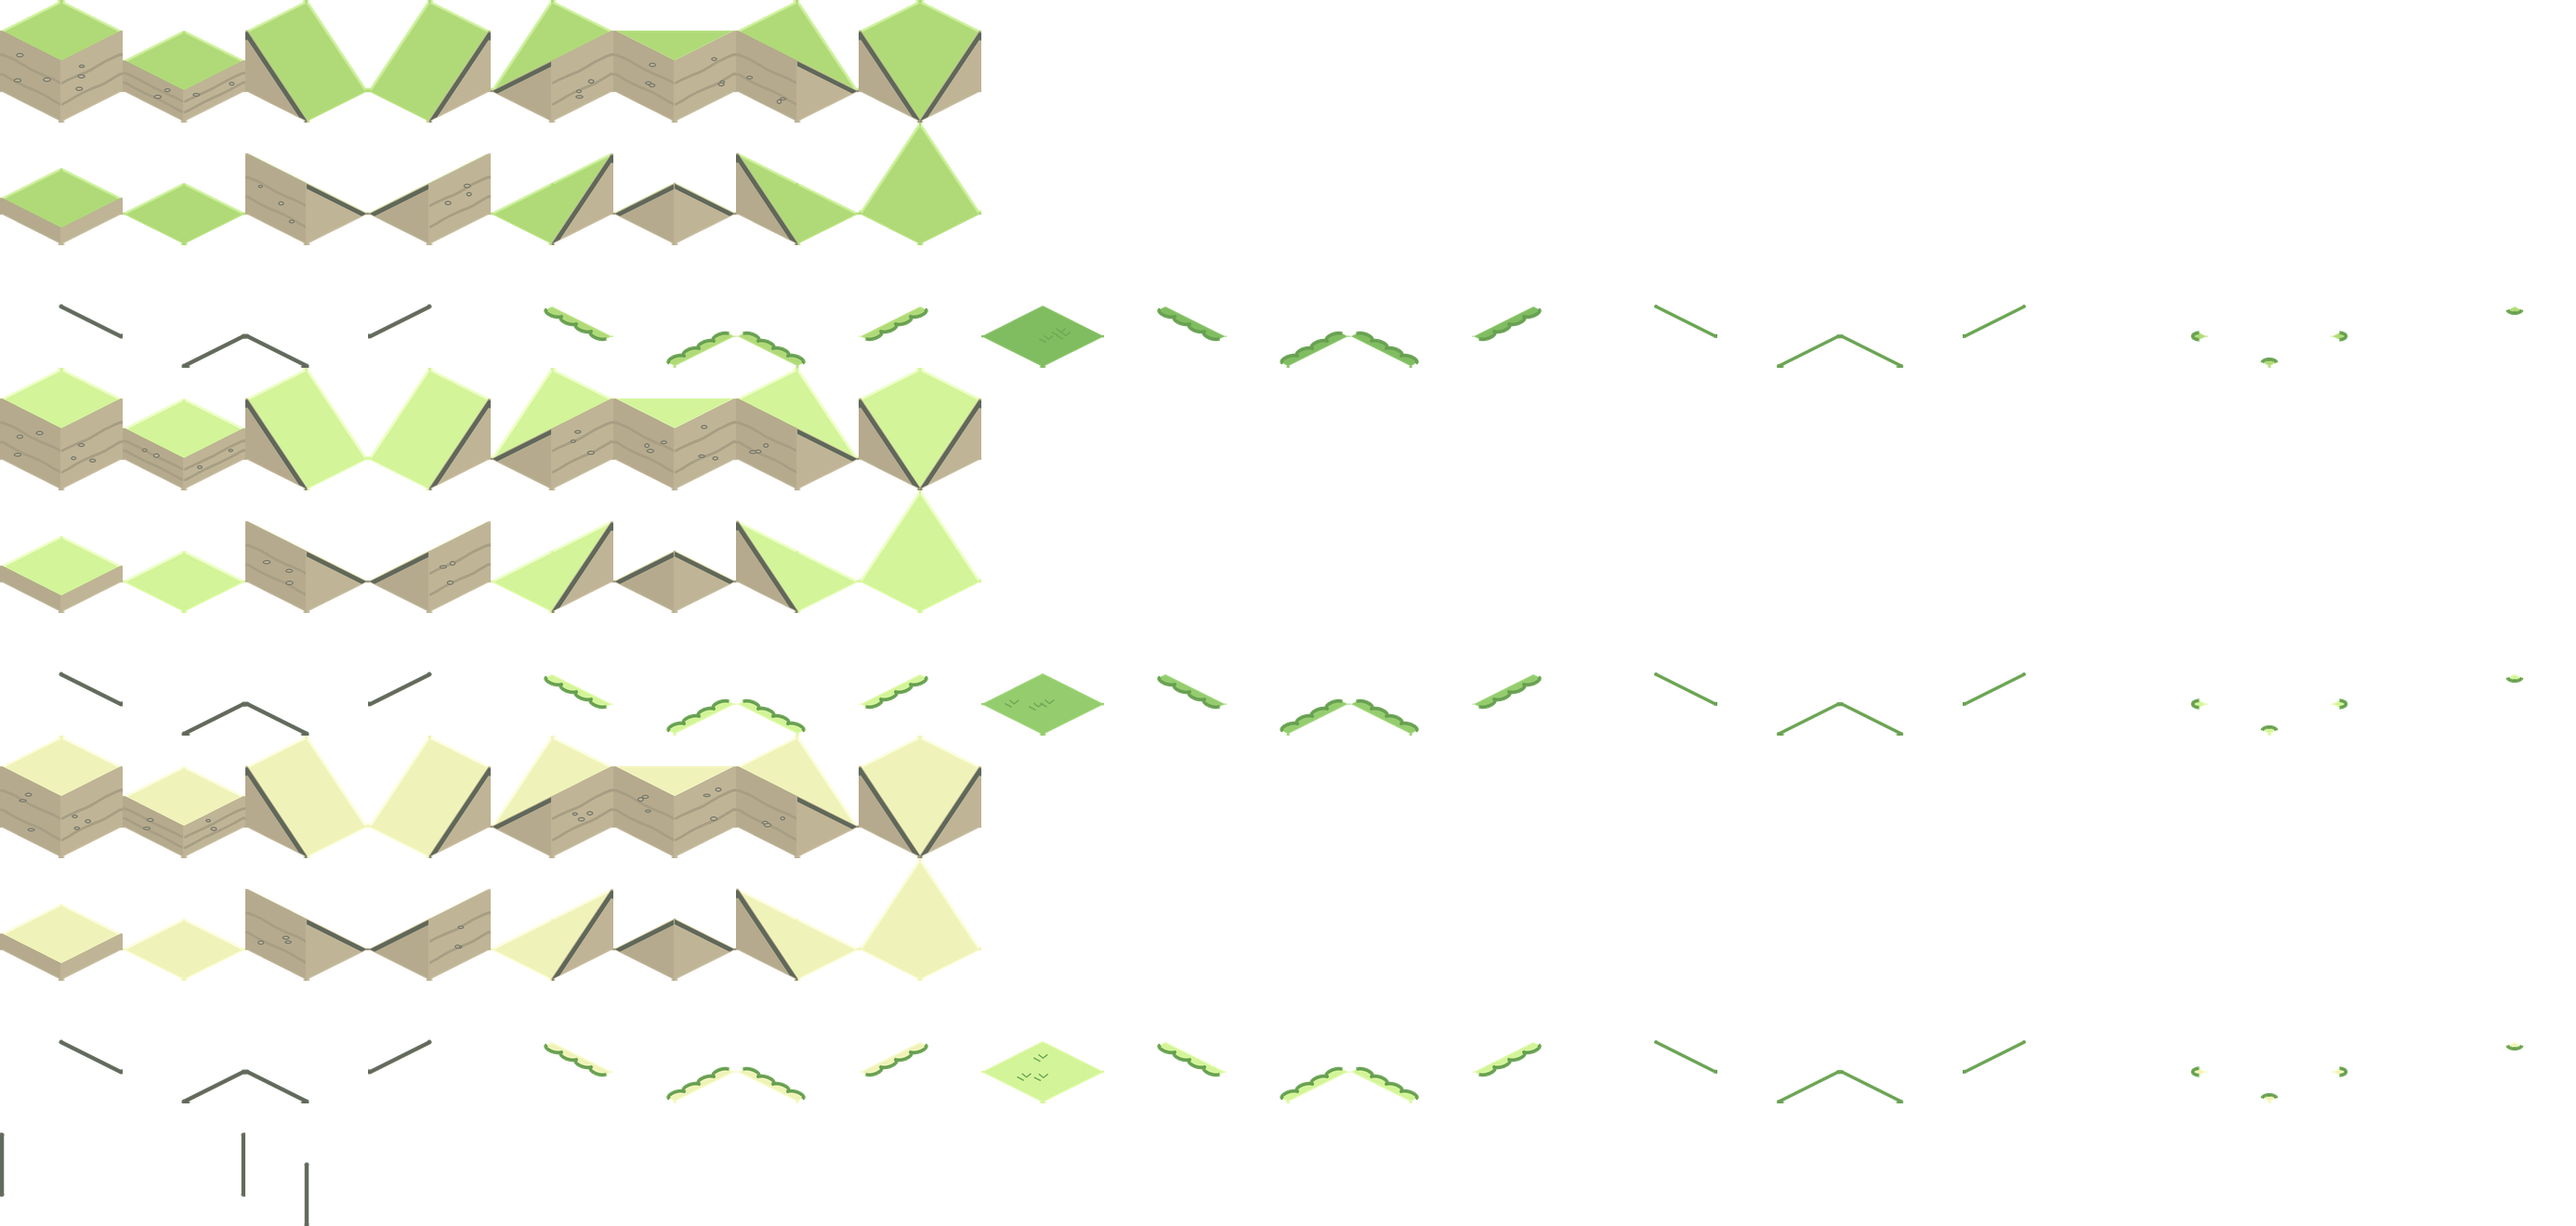
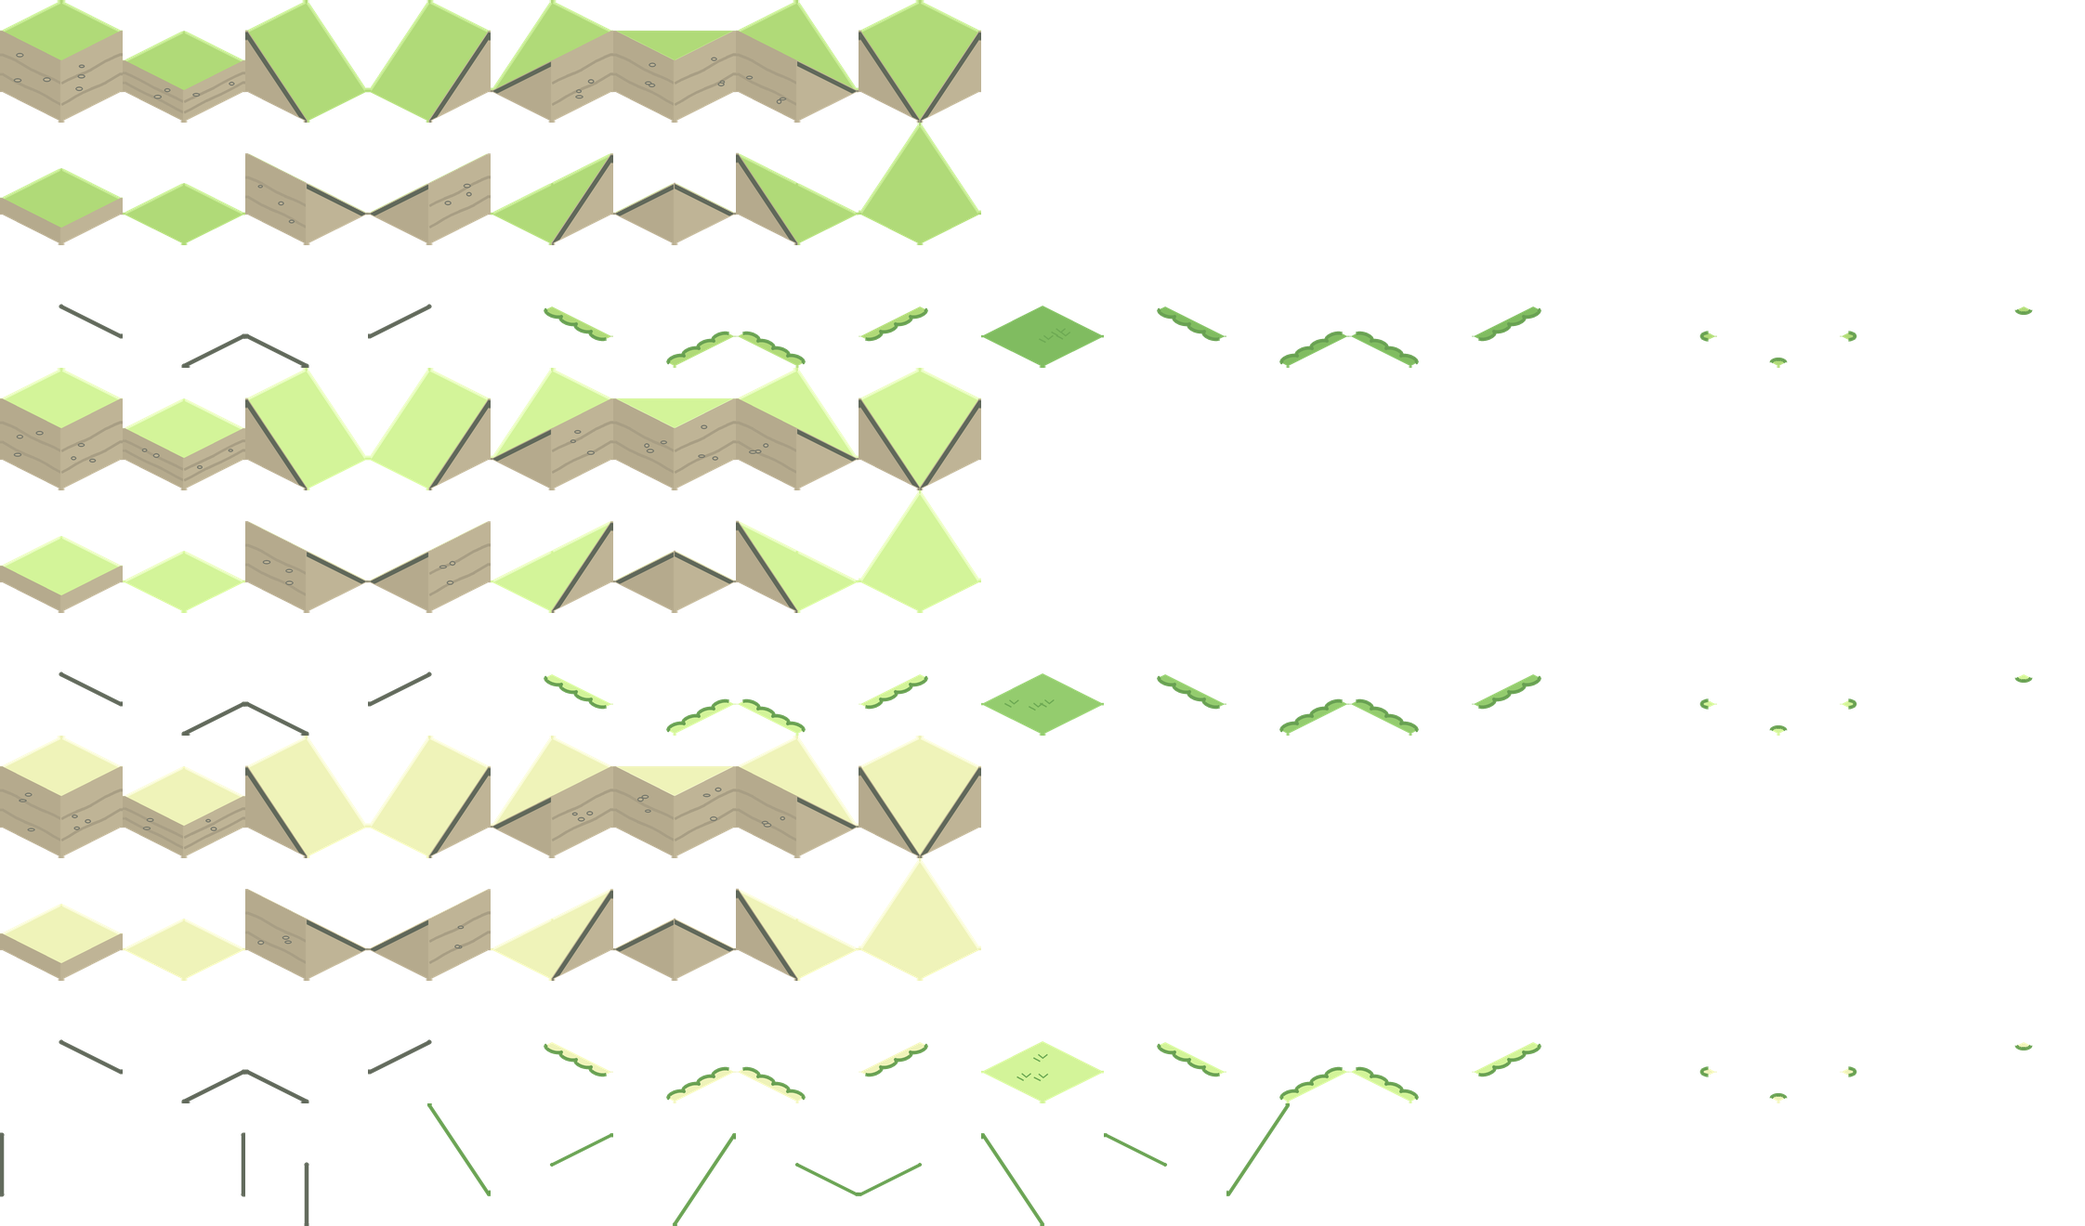
fix(isoworld): plus de trait au pied des pentes, une arete par pointe de plateau
Le pied d'une pente se raccorde au sol sans trait. A la pointe d'un plateau,
la ou le coin sortant se plie contre la pente voisine, une arete inclinee
est tracee sur les cotes est et sud du coin, ceux que la camera voit comme
une crete. Huit pieces d'arete de plus sur la ligne partagee de la planche.

Claude-Session: https://claude.ai/code/session_0181CUemCq7n3GdF1haz2AgB

diff --git a/src/game/isoworld/sheet.ts b/src/game/isoworld/sheet.ts
@@ -126,7 +126,7 @@ export const SHEETS: Readonly<Record<IsoStyle, SheetSpec>> = {
     // The query is a layout revision, bumped whenever the sheet's cells move:
     // browsers cache the file by URL, and a stale sheet sliced with the new
     // offsets shows pieces that no longer exist.
-    url: '/assets/world/iso-smooth-sheet-128.png?layout=6',
+    url: '/assets/world/iso-smooth-sheet-128.png?layout=7',
     cell: 128,
     pad: 2,
     materials: ['moss', 'grass', 'sand'],
@@ -191,8 +191,6 @@ export interface MaterialTiles {
   patchFringe?: Readonly<Record<Dir, Texture>>;
   /** The lace wrapped around one corner, by corner (NE 0, SE 1, SW 2, NW 3). */
   laceCap?: Readonly<Record<Dir, Texture>>;
-  /** The dark line along one edge where a slope meets flat ground. */
-  crease?: Readonly<Record<Dir, Texture>>;
   /** Corner ramps by their first side, on sheets that have them. */
   inner?: Readonly<Record<Dir, Texture>>;
   outer?: Readonly<Record<Dir, Texture>>;
@@ -209,6 +207,11 @@ export interface CornerTiles {
   left: Texture;
   right: Texture;
   front: Texture;
+  /**
+   * The dark line along a sloped edge, by side, then by which end is a block
+   * up: the edge's first corner clockwise, or its second.
+   */
+  fold: Readonly<Record<Dir, readonly [Texture, Texture]>>;
 }
 
 export interface IsoTileset {
@@ -282,8 +285,7 @@ async function load(style: IsoStyle): Promise<IsoTileset> {
             fringe: { 0: slice(r + 2, 4), 1: slice(r + 2, 5), 2: slice(r + 2, 6), 3: slice(r + 2, 7) },
             patch: slice(r + 2, 8),
             patchFringe: { 0: slice(r + 2, 9), 1: slice(r + 2, 10), 2: slice(r + 2, 11), 3: slice(r + 2, 12) },
-            crease: { 0: slice(r + 2, 13), 1: slice(r + 2, 14), 2: slice(r + 2, 15), 3: slice(r + 2, 16) },
-            laceCap: { 0: slice(r + 2, 17), 1: slice(r + 2, 18), 2: slice(r + 2, 19), 3: slice(r + 2, 20) },
+            laceCap: { 0: slice(r + 2, 13), 1: slice(r + 2, 14), 2: slice(r + 2, 15), 3: slice(r + 2, 16) },
           }
         : {}),
     };
@@ -308,7 +310,19 @@ async function load(style: IsoStyle): Promise<IsoTileset> {
     water: sea?.texture ?? null,
     seaColor: sea?.color ?? (typeof spec.background === 'number' ? spec.background : spec.background[0][1]),
     post: spec.post ? slice(spec.post[0], spec.post[1]) : null,
-    corners: spec.outlines ? { left: slice(9, 0), right: slice(9, 1), front: slice(9, 2) } : null,
+    corners: spec.outlines
+      ? {
+          left: slice(9, 0),
+          right: slice(9, 1),
+          front: slice(9, 2),
+          fold: {
+            0: [slice(9, 3), slice(9, 4)],
+            1: [slice(9, 5), slice(9, 6)],
+            2: [slice(9, 7), slice(9, 8)],
+            3: [slice(9, 9), slice(9, 10)],
+          },
+        }
+      : null,
   };
 }
 

diff --git a/src/game/isoworld/IsoWorldView.ts b/src/game/isoworld/IsoWorldView.ts
@@ -328,10 +328,19 @@ export class IsoWorldView {
       }
 
       if (n !== tier) continue;
-      // The foot of a slope: a line where it meets flat ground of its tier.
-      if (Boolean(ramp) !== Boolean(nRamp)) {
-        this.place(this.surfaceMaterial(ground, tier).crease![d], x, y, surface);
-        continue;
+      // The ridge of a plateau's tip: where an outer corner bends against
+      // the ramp beside it, along the sloped edge leaving its raised corner —
+      // but only on the corner's south and east sides, the ones the camera
+      // sees as a ridge. Those are this cell's north and west sides, so the
+      // outer corner is always the neighbour here.
+      if (ramp && nRamp?.kind === 'outer') {
+        const h = rampCorners(ramp);
+        const a = h[(d + 3) % 4];
+        const b = h[d];
+        if (a !== b) {
+          this.place(tileset.corners!.fold[d][a ? 0 : 1], x, y, surface);
+          continue;
+        }
       }
       // Same tier as this cell, so the floor rule is the same.
       const nPatch = deco && propAt(world, nx, ny)?.kind === 'patch' && tier > spec.floor;

diff --git a/tools/gen_iso_smooth_sheet.py b/tools/gen_iso_smooth_sheet.py
@@ -28,12 +28,18 @@ neighbour's transparent edge and draw a hairline seam down every wall.
     r1    turf     flat     slope S    slope E    outer NE  outer SE  outer SW  outer NW
     r2    rim N    rim E    rim S      rim W      fringe N  fringe E  fringe S  fringe W
     r2    ...      col 8    patch      col 9-12   patch fringe N E S W
-    r2    ...      col 13-16 crease N E S W        col 17-20  lace cap NE SE SW NW
+    r2    ...      col 13-16 lace cap NE SE SW NW
 
-A CREASE is the dark line along an edge where a slope meets flat ground of
-the same tier — the foot of a ramp. A LACE CAP is the fringe wrapped around
-one corner of the cell, for the outer-corner ramp, which the plateau above
-touches only at that point.
+and on the shared row 9, after the corners:
+
+    r9    col 3-10  fold N^ Nv E^ Ev S^ Sv W^ Wv
+
+A LACE CAP is the fringe wrapped around one corner of the cell, for the
+outer-corner ramp, which the plateau above touches only at that point. A
+FOLD is the dark line along a SLOPED edge — one end a block up — where an
+outer corner's surface bends against the slope beside it: the ridge of a
+plateau's tip. `^` has the edge's first corner (clockwise) raised, `v` the
+second.
 
 A FRINGE is the scalloped lace of this material's colour that hangs over a
 neighbouring cell along one of ITS edges — the reference's plateaus spill
@@ -113,7 +119,7 @@ OUT_PUBLIC = ROOT / 'public' / 'assets' / 'world' / 'iso-smooth-sheet-128.png'
 CELL = 128
 PAD = 2
 PITCH = CELL + 2 * PAD
-COLS, ROWS = 21, 10
+COLS, ROWS = 17, 10
 SS = 4  # supersampling: drawn at 512px per cell, then resolved down
 
 # Line weights, in OUTPUT pixels. Heavier than they look on the sheet: in the
@@ -492,10 +498,12 @@ def lace_cap(color, corner: int) -> Cell:
     return c
 
 
-def crease(direction: str) -> Cell:
-    """A dark green line along one edge of the base diamond: the foot of a slope."""
+def fold(direction: str, first_raised: bool) -> Cell:
+    """A dark green line along one edge, one end a block up: an outer corner's ridge."""
     c = Cell()
-    a, b = RIM_EDGES[direction]
+    (au, av, _), (bu, bv, _) = RIM_EDGES[direction]
+    a = (au, av, 1 if first_raised else 0)
+    b = (bu, bv, 0 if first_raised else 1)
     c.stroke(P(*a), P(*b), LACE_INK, OUTLINE * 0.8, caps=True)
     return c
 
@@ -570,11 +578,13 @@ def build() -> Image.Image:
             put(r + 2, 4 + col, fringe(mat[1], direction))
             put(r + 2, 9 + col, fringe(mat[3], direction))
         put(r + 2, 8, patch(mat, rng))
-        for col, direction in enumerate('NESW'):
-            put(r + 2, 13 + col, crease(direction))
-            put(r + 2, 17 + col, lace_cap(mat[1], col))
+        for col in range(4):
+            put(r + 2, 13 + col, lace_cap(mat[1], col))
     for col, which in enumerate('LRF'):
         put(9, col, corner(which))
+    for i, direction in enumerate('NESW'):
+        put(9, 3 + 2 * i, fold(direction, True))
+        put(9, 4 + 2 * i, fold(direction, False))
     return sheet
 
 
